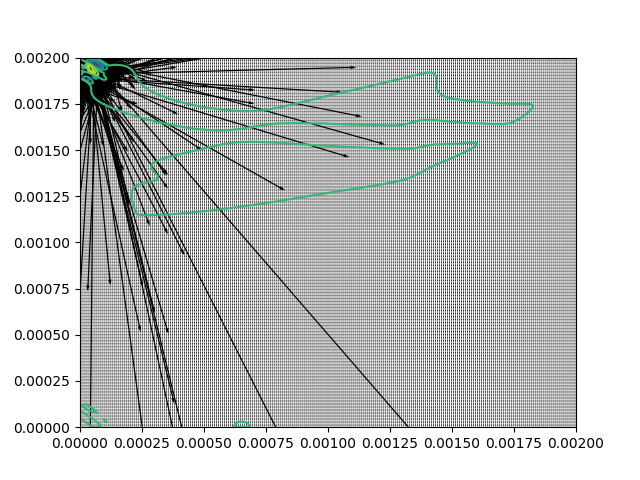
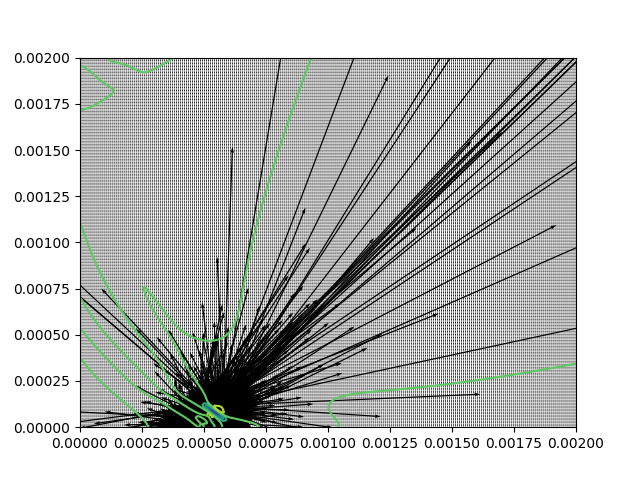
Actualization of Jacobi Method
New method in Jacobi solver. Now boundary condition is not P(boundary) = 0 but p[i,J+1] = p[i,J] and similar. It means same pressure out of the wall that exactly in front of it.

diff --git a/fluid_solver.py b/fluid_solver.py
@@ -158,14 +158,45 @@ class pde_fluid_solver():
         old_rel_error = np.nan
         while not_good and count < max_reps:
             for k in range(1,repeats):
-                for i in range(1,I-1):## Jacobi solver with boundary condition p_0. No change p in boundary.
-                    for j in range(1,J-1):
-                        p_new[i,j] =+0.25*(p[i+1,j]+p_new[i-1,j]+p[i,j+1]+p_new[i,j-1])-0.25*self.dx**2*right_side[i,j]
+                    #simpler version commented, but boundary condition in p=p0
+                    #for i in range(1,I-1):
+                    #    for j in range(1,J-1):
+                    #        p_new[i,j] =+0.25*(p[i+1,j]+p_new[i-1,j]+p[i,j+1]+p_new[i,j-1])-0.25*self.dx**2*right_side[i,j]
+
+                for i in range(0,I):## Jacobi solver with boundary condition p_0. No boundary condition. We have to take into acount ALL bad i j
+                    if i == 0:
+                        for j in range(0,J):
+                            if j == 0:
+                                p_new[i,j] =+0.25*(p[i+1,j]+p_new[i,j]+p[i,j+1]+p_new[i,j])-0.25*self.dx**2*right_side[i,j]
+                            elif j == J-1:
+                                p_new[i,j] =+0.25*(p[i+1,j]+p_new[i,j]+p[i,j]+p_new[i,j-1])-0.25*self.dx**2*right_side[i,j]
+                            else:
+                                p_new[i,j] =+0.25*(p[i+1,j]+p_new[i,j]+p[i,j+1]+p_new[i,j-1])-0.25*self.dx**2*right_side[i,j]
+                    elif i == I-1:
+                        for j in range(J):
+                            if j == 0:
+                                p_new[i,j] =+0.25*(p[i,j]+p_new[i-1,j]+p[i,j+1]+p_new[i,j])-0.25*self.dx**2*right_side[i,j]
+                            elif j == J-1:
+                                p_new[i,j] =+0.25*(p[i,j]+p_new[i-1,j]+p[i,j]+p_new[i,j-1])-0.25*self.dx**2*right_side[i,j]
+                            else:
+                                p_new[i,j] =+0.25*(p[i,j]+p_new[i-1,j]+p[i,j+1]+p_new[i,j-1])-0.25*self.dx**2*right_side[i,j]
+                    else:
+                        for j in range(J):
+                            if j == 0:
+                                p_new[i,j] =+0.25*(p[i+1,j]+p_new[i-1,j]+p[i,j+1]+p_new[i,j])-0.25*self.dx**2*right_side[i,j]
+                            elif j == J-1:
+                                p_new[i,j] =+0.25*(p[i+1,j]+p_new[i-1,j]+p[i,j]+p_new[i,j-1])-0.25*self.dx**2*right_side[i,j]
+                            else:
+                                p_new[i,j] =+0.25*(p[i+1,j]+p_new[i-1,j]+p[i,j+1]+p_new[i,j-1])-0.25*self.dx**2*right_side[i,j]
                 del p
                 p = p_new.copy()
                 count += 1
-            
-            rel_error = np.mean(np.mean(np.abs(DDx(p_new,self.dx,0,0)+DDy(p_new,self.dy,0,0)-right_side),axis = 0),axis = 0)/np.mean(np.mean(np.abs(right_side),axis = 0),axis = 0)
+            #
+            # If first way of calculating, uncomment this error control
+            # rel_error = np.mean(np.mean(np.abs(DDx(p_new,self.dx,0,0)+DDy(p_new,self.dy,0,0)-right_side),axis = 0),axis = 0)/np.mean(np.mean(np.abs(right_side),axis = 0),axis = 0)
+            #
+
+            rel_error = np.mean(np.mean(np.abs(DDx_nobc(p_new,self.dx)+DDy_nobc(p_new,self.dy)-right_side),axis = 0),axis = 0)/np.mean(np.mean(np.abs(right_side),axis = 0),axis = 0)
             if rel_error > precision and np.abs(rel_error-old_rel_error) < precision*0.1: ## Max accuracy of solver
                 not_good = False
                 print(Fore.RED + '\nWARNING: the relative error in pressure calculated by Jacobi method is %1.5f bigger than the precision = %1.5f. It is the better convergence that one can reach with  a %ix%i grid.'%(rel_error,precision,self.dim[0],self.dim[1]) + Style.RESET_ALL)
